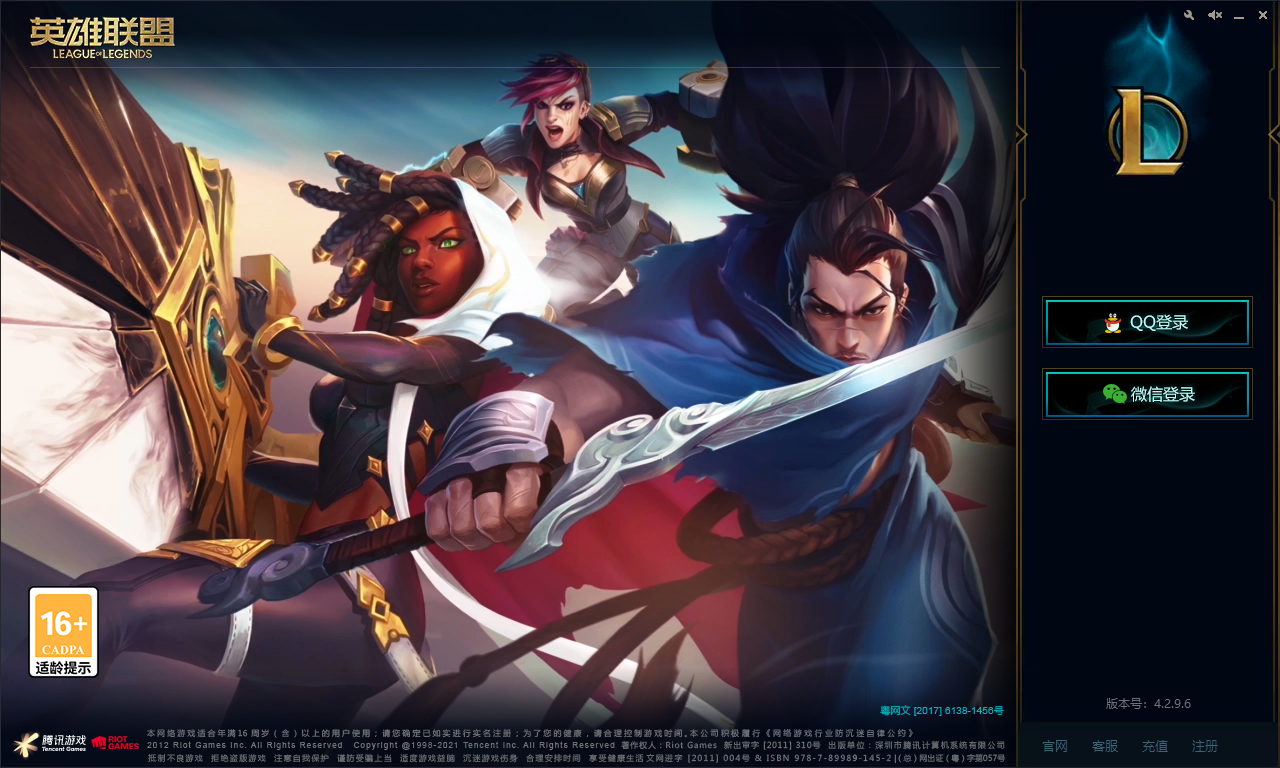
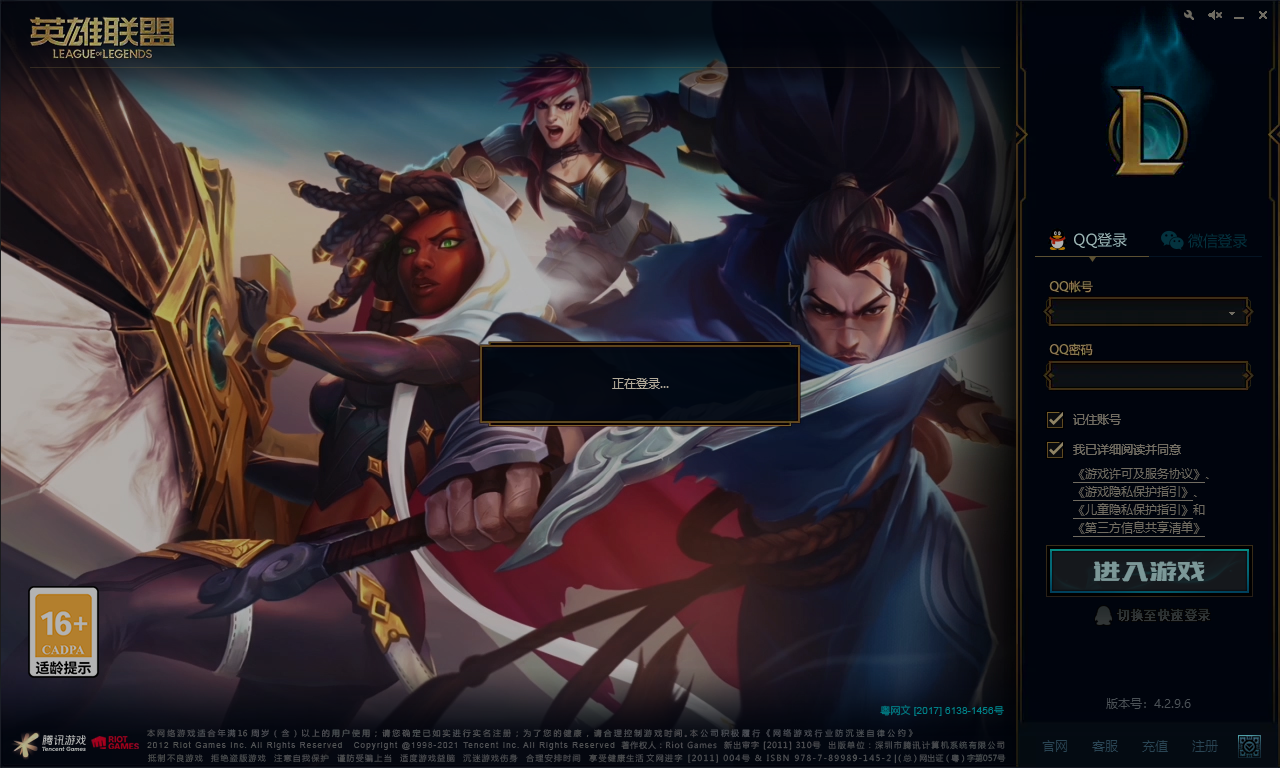
全自动登录（能够识别更新，等待更新，等待加载界面）

diff --git a/lol_login.py b/lol_login.py
@@ -18,9 +18,9 @@ while 1:
     qq_src = cv2.imread("./src.png")
     ScreenCapture.ScreenCapture()
     time.sleep(1)
+    print(ac.find_template(imsrc, imobj, 0.99))
+    print(ac.find_template(imsrc, qq_src, 0.9))
     if (ac.find_template(imsrc, imobj, 0.99) and ac.find_template(imsrc, qq_src, 0.9)) is None:
-        print(ac.find_template(imsrc, imobj, 0.99))
-        print(ac.find_template(imsrc, qq_src, 0.9))
         print("最终没能匹配到：" + IMSRC)
         continue
     else:
@@ -44,10 +44,25 @@ while 1:
         control_mouse.position = (pos_x, identify_y)
         control_mouse.press(mouse.Button.left)
         control_mouse.release(mouse.Button.left)
-        time.sleep(1)
-        Select_region_y = pos_y + 250 + 270
-        Select_region_x = pos_x - 230
-        control_mouse.position = (Select_region_x,Select_region_y)
-        control_mouse.press(mouse.Button.left)
-        control_mouse.release(mouse.Button.left)
+        time.sleep(2)
+
+        if ac.find_template(imsrc, cv2.imread("./select_region.png"), 0.9) is None:
+            ScreenCapture.ScreenCapture()
+            time.sleep(2)
+            if ac.find_template(imsrc, cv2.imread("./select_region.png"), 0.9):
+                Select_region_y = pos_y + 250 + 270
+                Select_region_x = pos_x - 230
+                control_mouse.position = (Select_region_x, Select_region_y)
+                control_mouse.press(mouse.Button.left)
+                control_mouse.release(mouse.Button.left)
+            else:
+                print("未加载出界面，等待5s")
+                time.sleep(5)
+                Select_region_y = pos_y + 250 + 70
+                Select_region_x = pos_x - 230
+                print(Select_region_x, Select_region_y)
+                control_mouse.position = (Select_region_x, Select_region_y)
+                control_mouse.press(mouse.Button.left)
+                control_mouse.release(mouse.Button.left)
+
         break
